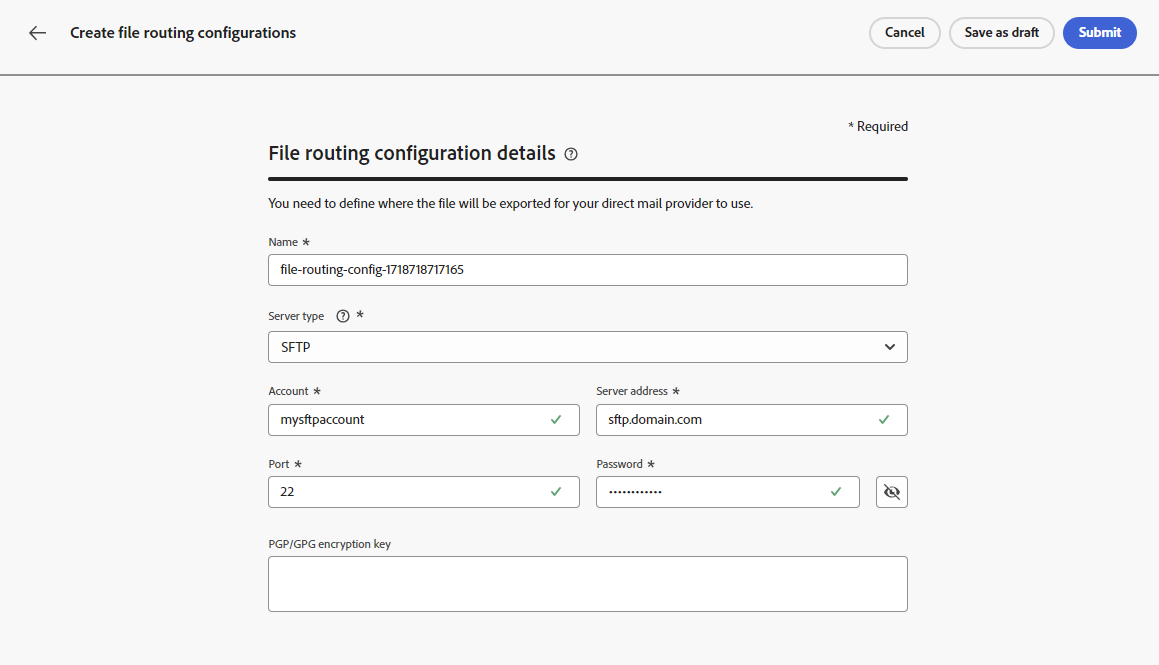
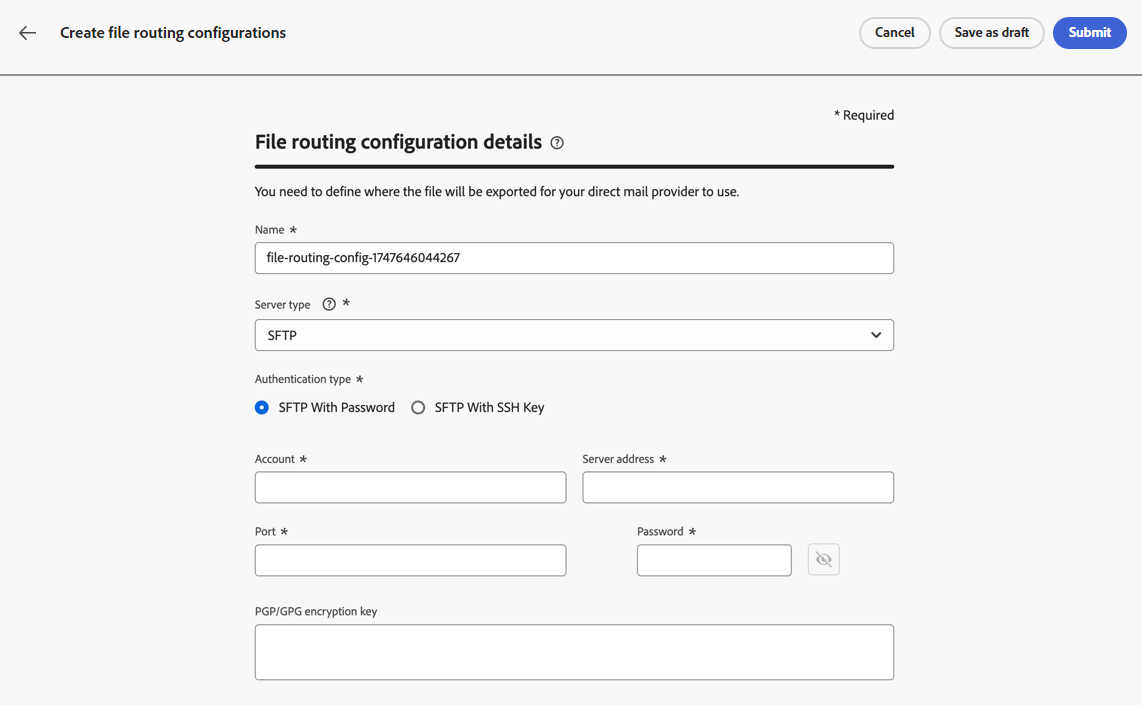
Docac 12685 ssh support direct mail (#1911)
* add info on SFTP server connection type field

* update rn

* update rn

diff --git a/help/using/direct-mail/direct-mail-configuration.md b/help/using/direct-mail/direct-mail-configuration.md
@@ -97,13 +97,15 @@ If you selected **[!UICONTROL Amazon S3]** as the **[!UICONTROL Server type]**, 
 
 If you selected **[!UICONTROL SFTP]** as the **[!UICONTROL Server type]**, fill in the details and credentials for your server:
 
-* **Account**: Account name used to connect to the SFTP server.
+* **[!UICONTROL Authentication type]**: Select the type of authentication used to connect to the server (password or SSH Key).
 
-* **Server address**: URL of the SFTP server.
+* **[!UICONTROL Account]**: Account name used to connect to the SFTP server.
 
-* **Port**: FTP connection port number.
+* **[!UICONTROL Server address]**: URL of the SFTP server.
 
-* **Password**: Password used to connect to the SFTP server.
+* **[!UICONTROL Port]**: SFTP connection port number.
+
+* **[!UICONTROL Password]** / **[!UICONTROL SSH Key]**: Password or SSH Key used to connect to the SFTP server.
 
 ![](assets/file-routing-config-sftp-detail.png)
 

diff --git a/help/using/rn/release-notes.md b/help/using/rn/release-notes.md
@@ -56,6 +56,11 @@ exl-id: 06fa956a-b500-416e-9d42-b683c328e837
 
     Decisioning objects can now be copied between sandboxes, streamlining testing and deployment workflows. [Read more](../configuration/copy-objects-to-sandbox.md#decisioning)
 
+* **Direct Mail: SSH Key support for SFTP connections** - Availability date: May 5, 2025
+
+  SSH key authentication is now supported for SFTP server connections in Direct Mail file routing configuration.
+
+
 ## April '25 release notes {#25-4-rn}
 
 **Release date**: April 29-30, 2025
